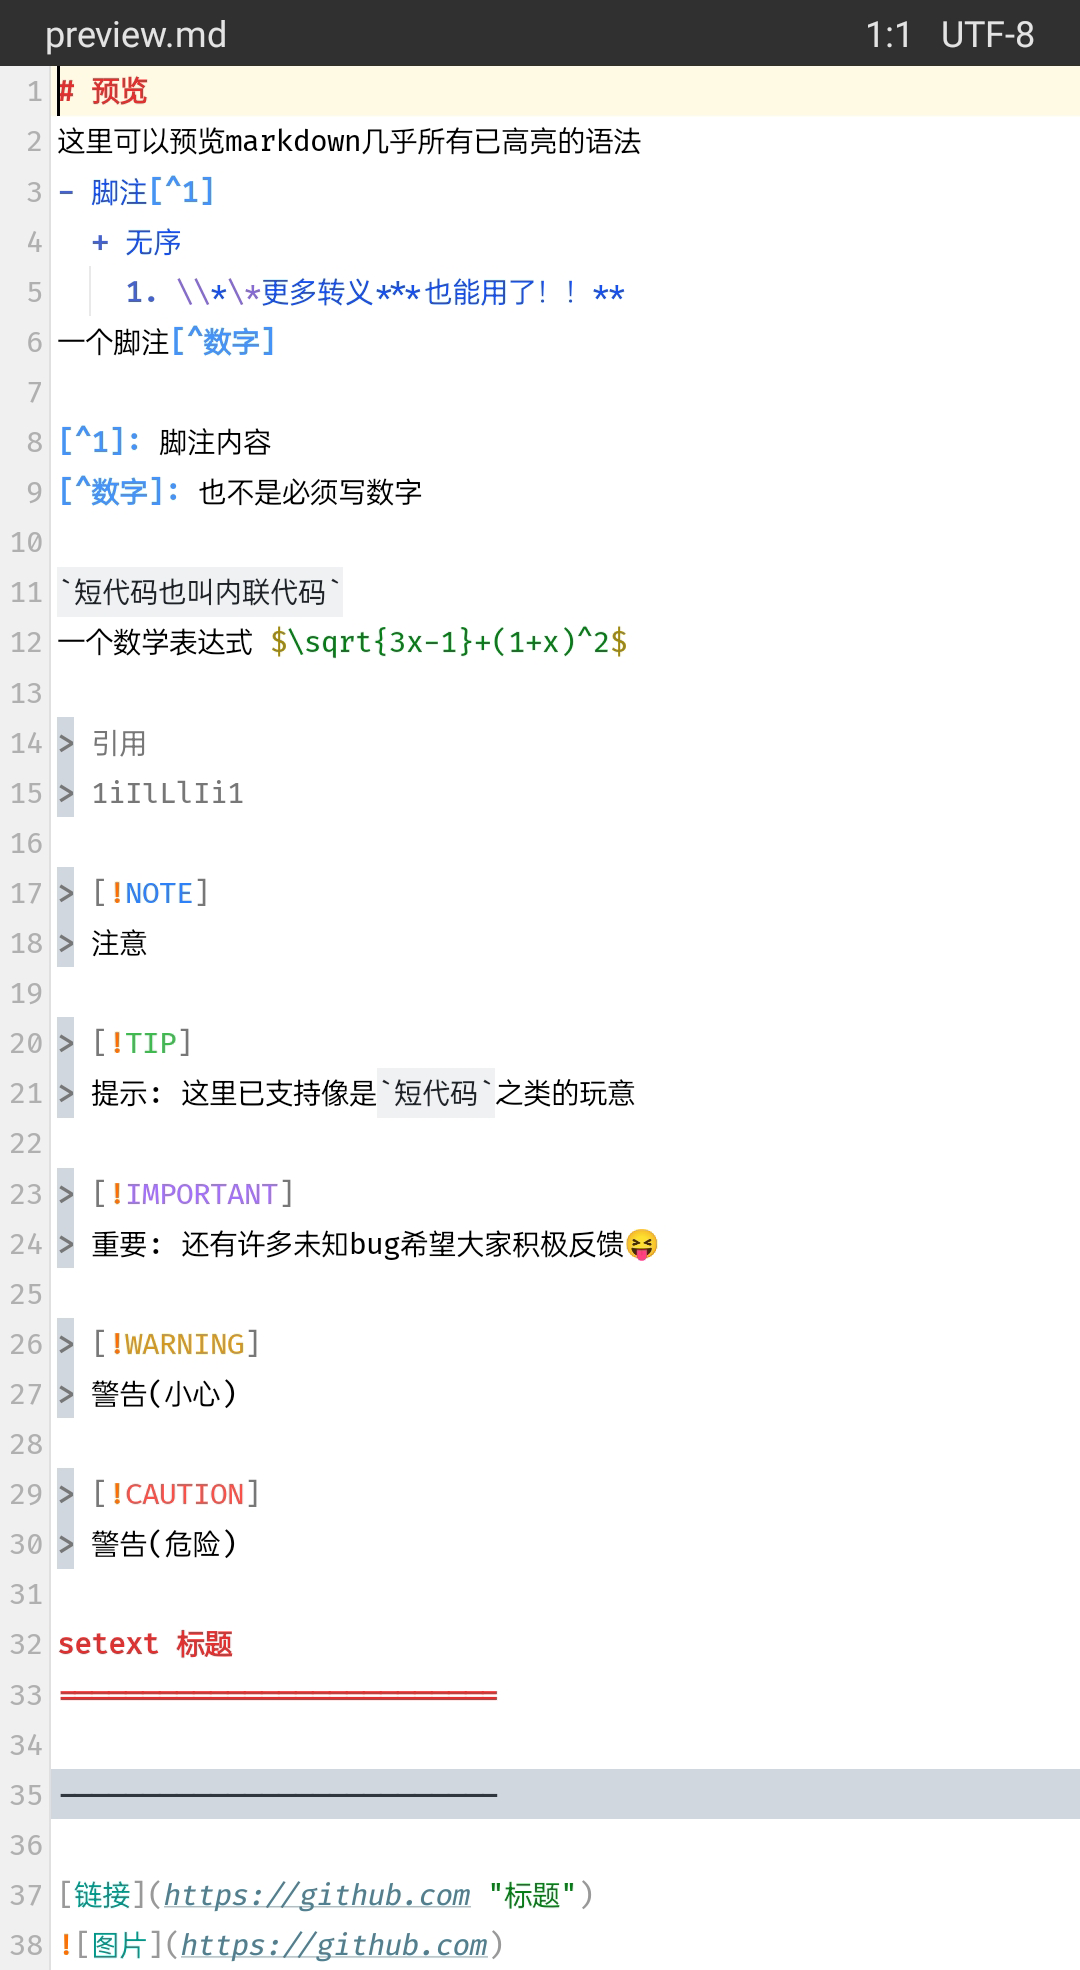
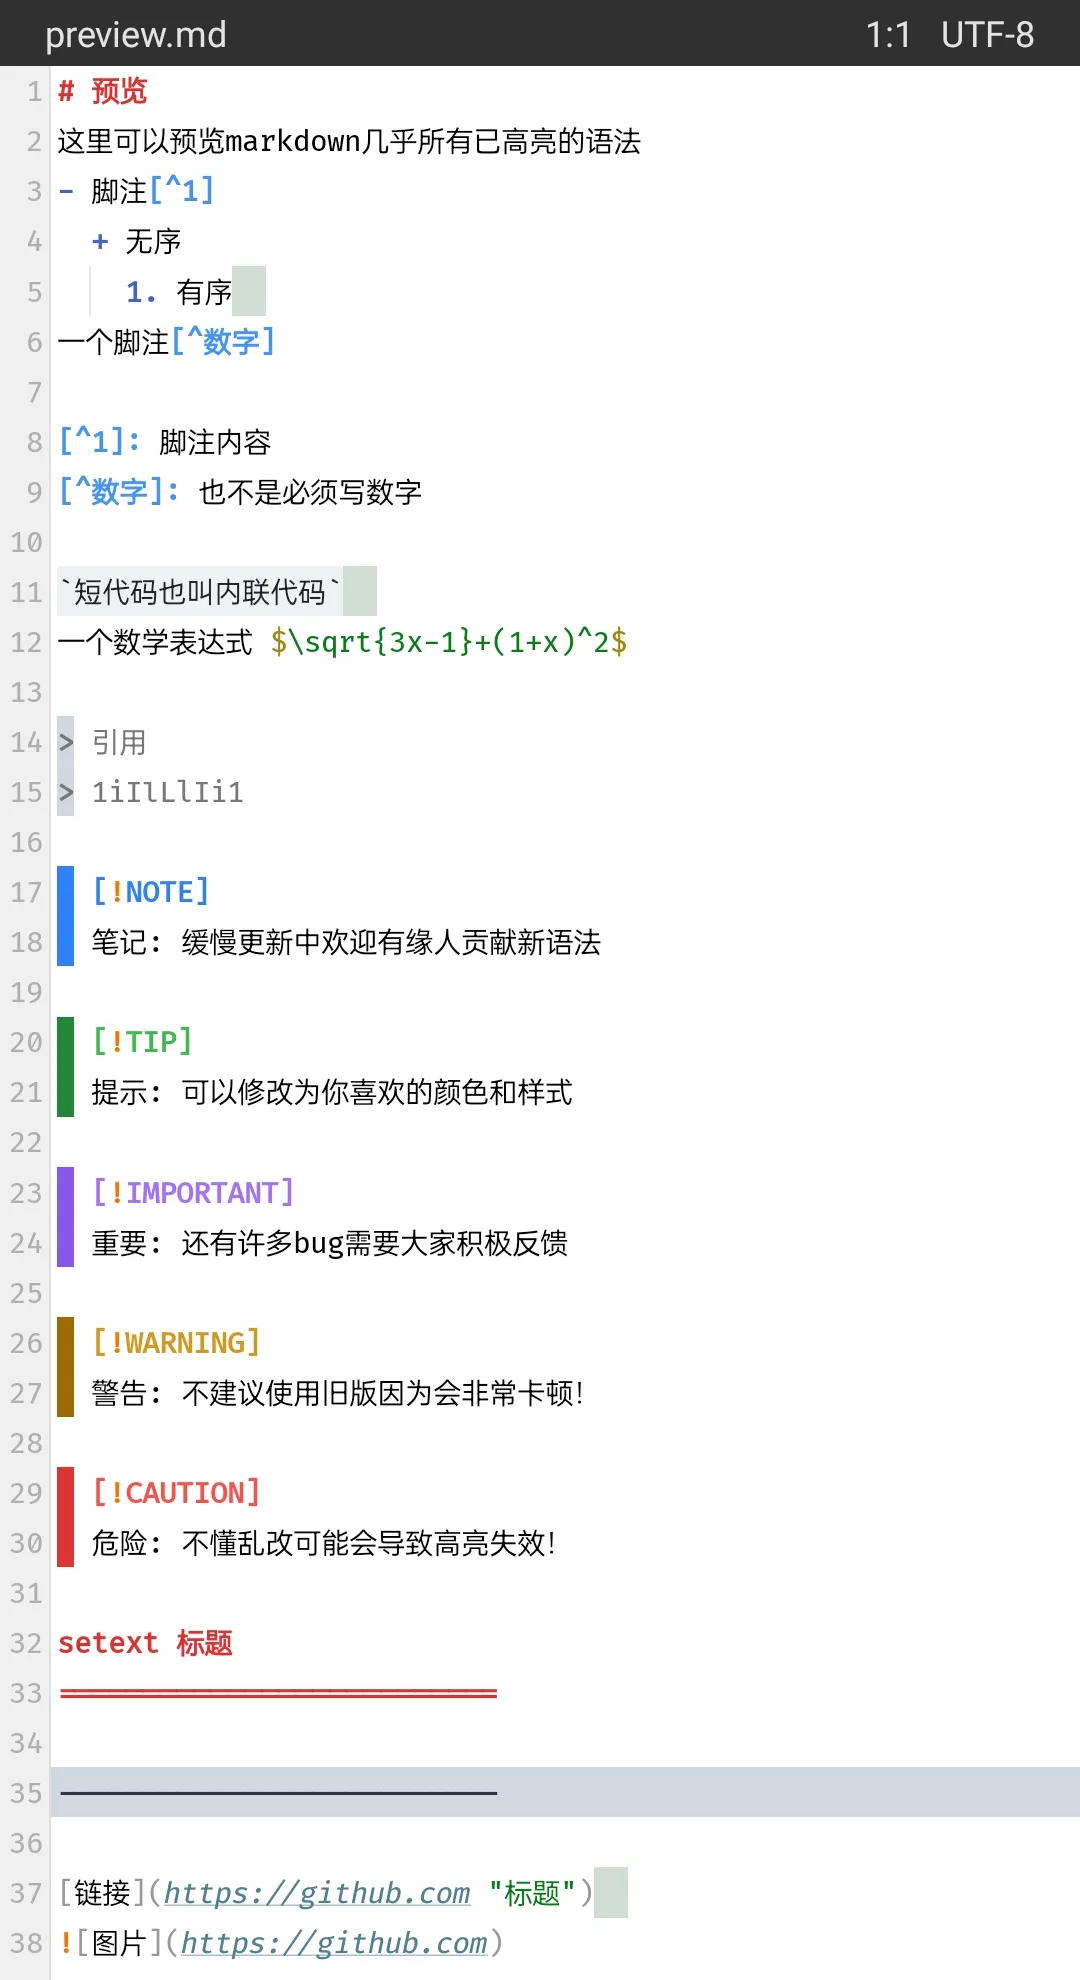
chore: 调整预览文件

diff --git a/preview/markdown_github/preview.md b/preview/markdown_github/preview.md
@@ -2,7 +2,7 @@
 这里可以预览markdown几乎所有已高亮的语法
 - 脚注[^1]
   + 无序
-    1. \\*\*更多转义***也能用了！！**  
+    1. 有序  
 一个脚注[^数字]
 
 [^1]: 脚注内容
@@ -15,19 +15,19 @@
 > 1iIlLlIi1
 
 > [!NOTE]
-> 注意
+> 笔记: 缓慢更新中欢迎有缘人贡献新语法
 
 > [!TIP]
-> 提示: 这里已支持像是`短代码`之类的玩意
+> 提示: 可以修改为你喜欢的颜色和样式
 
 > [!IMPORTANT]
-> 重要: 还有许多未知bug希望大家积极反馈😝
+> 重要: 还有许多bug需要大家积极反馈
 
 > [!WARNING]
-> 警告(小心)
+> 警告: 不建议使用旧版因为会非常卡顿！
 
 > [!CAUTION]
-> 警告(危险)
+> 危险: 不懂乱改可能会导致高亮失效！
 
 setext 标题
 ==========================
@@ -62,16 +62,16 @@ setext 标题
 
 | 支持 | 语法 | 难度 | 备注 |
 | :---: | --- | --- | --- |
-| ✅ | 脚注 | ⭐ |
+| ✅ | 脚注 | ⭐ | 完美
 | 🚧 | 数学表达式 | ⭐⭐ | 多行暂未支持
-| ✅ | 缩进代码块 | ⭐⭐⭐⭐ | 仅基本渲染
-| ✅ | 警告块 | ⭐⭐⭐⭐⭐ | 还不够完美
-| ❌ | 表格 | ⭐⭐⭐⭐⭐⭐⭐ | 嵌套bug多
-| ❌ | 字体样式 | ⭐⭐⭐⭐⭐⭐⭐ | 嵌套bug多
+| ✅ | 缩进代码块 | ⭐⭐⭐⭐ | 完美
+| ✅ | 警告块 | ⭐⭐⭐⭐⭐ | 完美
+| ❌ | 表格 | ⭐⭐⭐⭐⭐⭐⭐ | 懒得写
+| ❌ | 字体样式 | ⭐⭐⭐⭐⭐⭐⭐ | 懒得写
 
 # 说点废话
-其实目前来说，稍微大点的文件已经有渲染效率问题了，所以可能会在将一些常用语法给高亮之后，就暂停对GFM的更新~~(但会继续优化匹配逻辑)，直至MT管理器优化渲染效率。(遥遥无期吧~)~~
-在2.16.0版本中，mt已经内置了markdown语法，我不打算继续更新（别问为什么，因为改用新语法相当于再次重构，我的精力有限，而且我很懒）除非有什么_~~奇迹~~_ 契机让我去更新，否则只能让其他贡献者来更新咯🤔
+其实目前稍微大点的文件已经有渲染效率问题了，所以可能会在将一些常用语法给高亮之后，就暂停对GFM的更新(但会继续缓慢优化匹配逻辑)  
+在2.16.0版本中，mt已经内置了markdown语法，它的速度更快，或许这个版本会被抛弃，转而改改内置版的配色？谁知道呢🤔
 
 # 测试数据
 - 2.0版本：
@@ -89,4 +89,4 @@ setext 标题
 - 3.4版本：
 与3.3版本几乎相同，小文件提升约30%，大文件几乎没有太大变化
 
-这些数据可能不准确，根据设备性能、mt实际版本适配优化、语法嵌套和复杂度会有所不同，故此数据仅供参考。
+这些数据可能不准确，根据设备性能、mt实际版本优化、语法嵌套和复杂度会有所不同，故此数据仅供参考。
